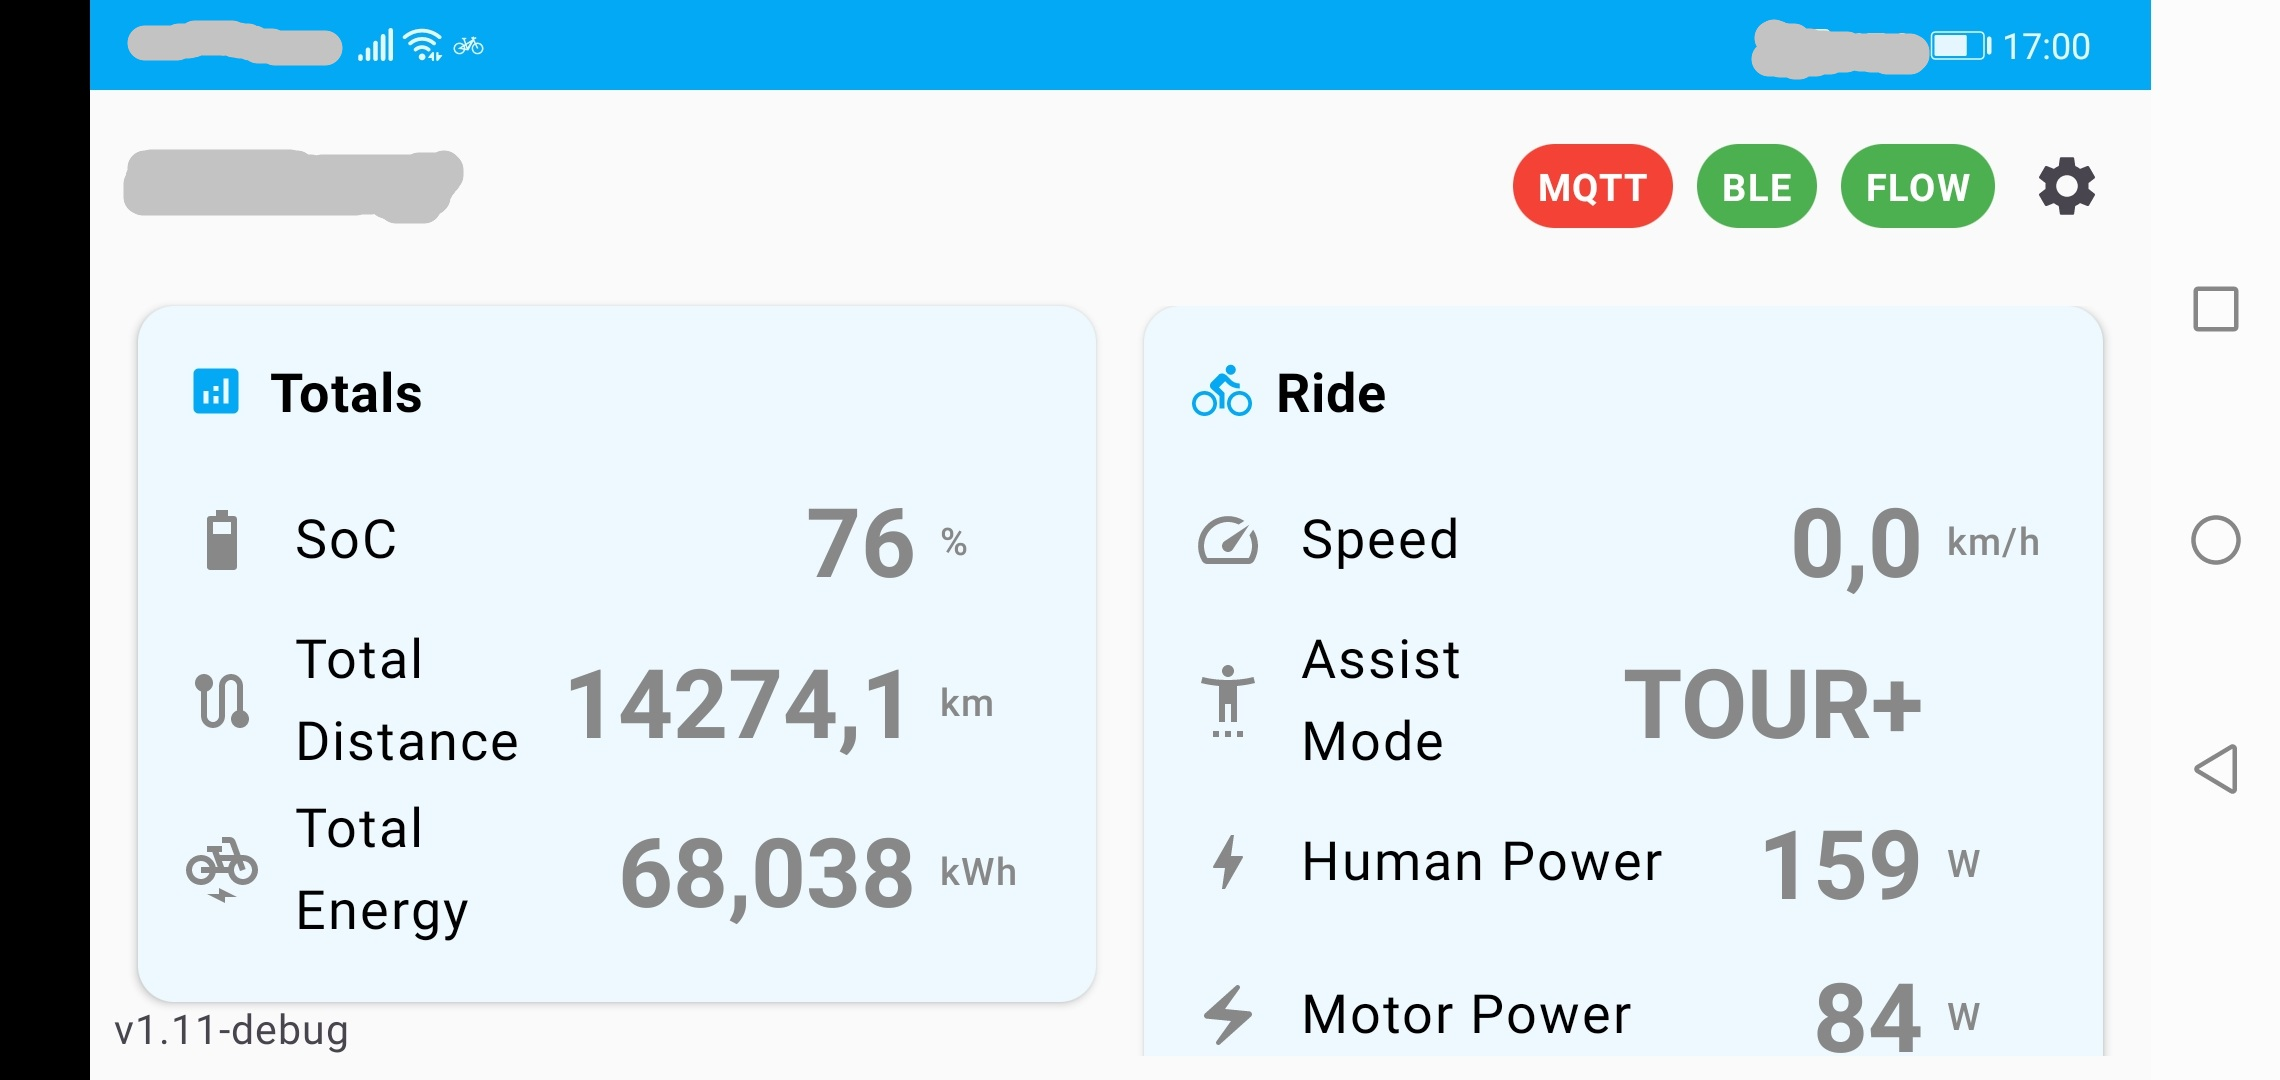
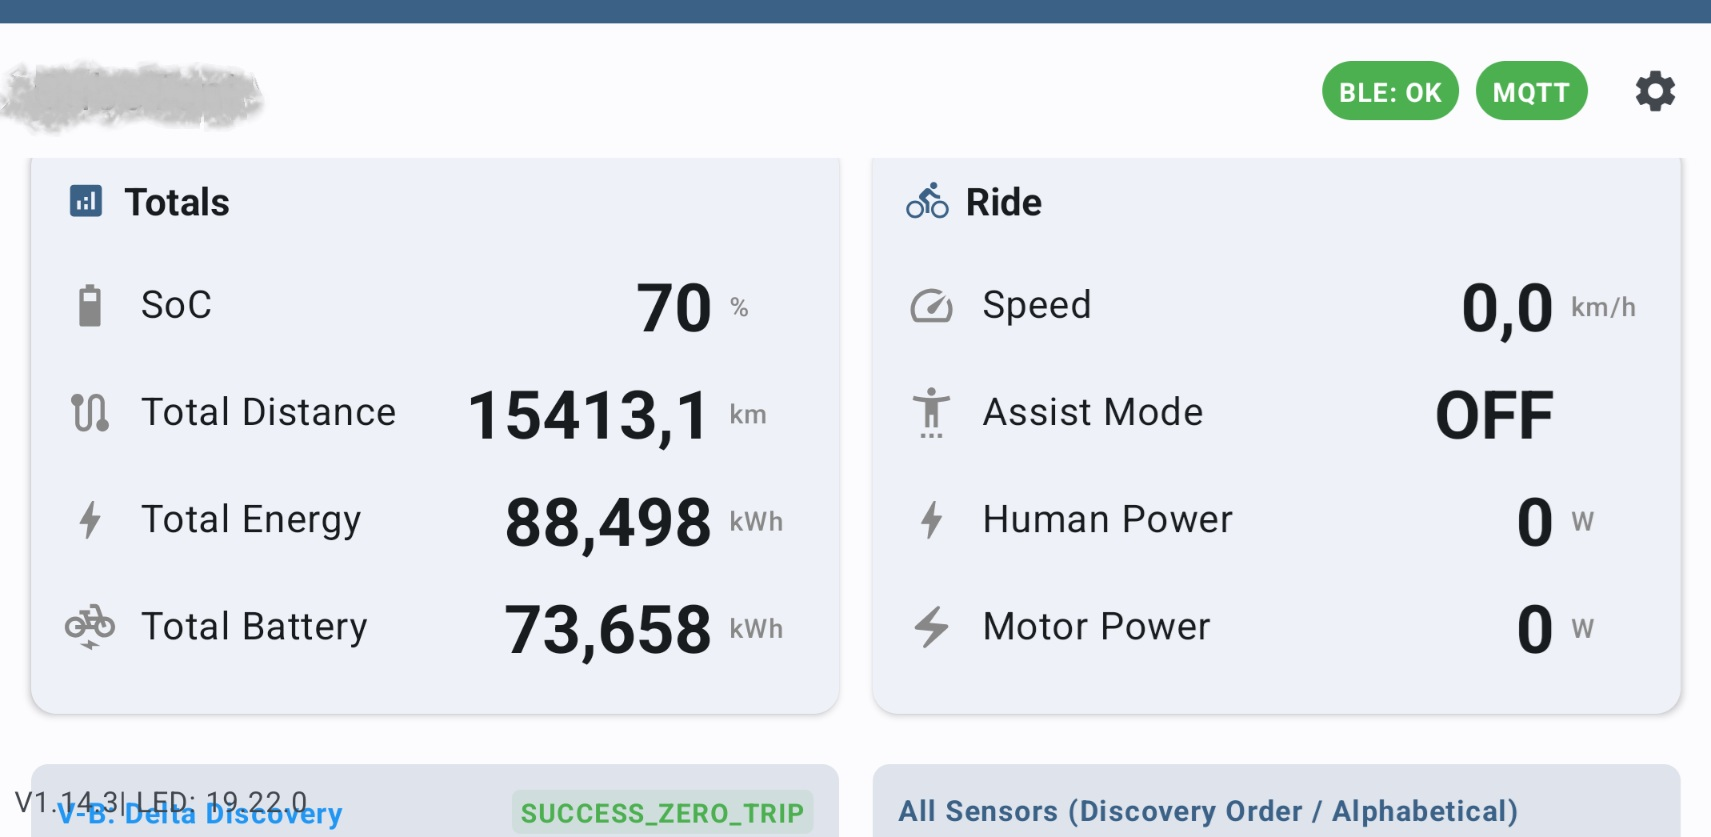
Update documentation and finalize landscape UI
This commit includes all recent documentation updates to README, CHANGELOG, and IMPLEMENTATION_HISTORY, reflecting the new background startup capabilities and removal of legacy settings. It also includes the compact landscape mode UI optimizations and updated screenshots.

diff --git a/app/src/main/java/com/example/ebikemonitor/ui/DashboardScreen.kt b/app/src/main/java/com/example/ebikemonitor/ui/DashboardScreen.kt
@@ -80,6 +80,10 @@ fun DashboardScreen(
                     ) 
                 },
                 actions = {
+                    if (isLandscape) {
+                        CompactActionButtons(viewModel, isMqttConnected, isBleConnected)
+                        Spacer(modifier = Modifier.width(8.dp))
+                    }
                     IconButton(onClick = onNavigateToSettings) {
                         Icon(Icons.Default.Settings, contentDescription = stringResource(R.string.content_desc_settings))
                     }
@@ -279,7 +283,7 @@ fun LandscapeLayout(
         contentPadding = PaddingValues(top = 8.dp, bottom = 24.dp)
     ) {
         item(span = { GridItemSpan(2) }) {
-            ActionButtonsRow(viewModel, isMqttConnected, isBleConnected)
+            NotificationAccessNudge(viewModel)
         }
         item(span = { GridItemSpan(2) }) {
             DiscoveryUpdateNudges(viewModel)
@@ -409,38 +413,8 @@ fun ActionButtonsRow(
     isMqttConnected: Boolean,
     isBleConnected: Boolean,
 ) {
-    val isNotificationAccessGranted by viewModel.isNotificationAccessGranted.collectAsState()
-    
     Column(modifier = Modifier.fillMaxWidth(), verticalArrangement = Arrangement.spacedBy(12.dp)) {
-        // Notification Access Nudge
-        if (!isNotificationAccessGranted) {
-            Surface(
-                modifier = Modifier.fillMaxWidth(),
-                color = MaterialTheme.colorScheme.errorContainer,
-                shape = RoundedCornerShape(12.dp),
-                onClick = { viewModel.openNotificationAccessSettings() }
-            ) {
-                Row(
-                    modifier = Modifier.padding(16.dp),
-                    horizontalArrangement = Arrangement.spacedBy(12.dp),
-                    verticalAlignment = Alignment.CenterVertically
-                ) {
-                    Icon(Icons.Default.Warning, contentDescription = null, tint = MaterialTheme.colorScheme.error)
-                    Column(modifier = Modifier.weight(1f)) {
-                        Text(
-                            "Background Startup Limited", 
-                            fontWeight = FontWeight.Bold,
-                            color = MaterialTheme.colorScheme.onErrorContainer
-                        )
-                        Text(
-                            "Tap here to grant Notification Access. This allows the app to wake up automatically when Bosch Flow connects.",
-                            style = MaterialTheme.typography.bodySmall,
-                            color = MaterialTheme.colorScheme.onErrorContainer
-                        )
-                    }
-                }
-            }
-        }
+        NotificationAccessNudge(viewModel)
 
         Row(
             modifier = Modifier.fillMaxWidth(),
@@ -491,20 +465,53 @@ fun ActionButtonsRow(
 }
 
 @Composable
+fun NotificationAccessNudge(viewModel: MainViewModel) {
+    val isNotificationAccessGranted by viewModel.isNotificationAccessGranted.collectAsState()
+    if (!isNotificationAccessGranted) {
+        Surface(
+            modifier = Modifier.fillMaxWidth(),
+            color = MaterialTheme.colorScheme.errorContainer,
+            shape = RoundedCornerShape(12.dp),
+            onClick = { viewModel.openNotificationAccessSettings() }
+        ) {
+            Row(
+                modifier = Modifier.padding(16.dp),
+                horizontalArrangement = Arrangement.spacedBy(12.dp),
+                verticalAlignment = Alignment.CenterVertically
+            ) {
+                Icon(Icons.Default.Warning, contentDescription = null, tint = MaterialTheme.colorScheme.error)
+                Column(modifier = Modifier.weight(1f)) {
+                    Text(
+                        "Background Startup Limited", 
+                        fontWeight = FontWeight.Bold,
+                        color = MaterialTheme.colorScheme.onErrorContainer
+                    )
+                    Text(
+                        "Tap here to grant Notification Access. This allows the app to wake up automatically when Bosch Flow connects.",
+                        style = MaterialTheme.typography.bodySmall,
+                        color = MaterialTheme.colorScheme.onErrorContainer
+                    )
+                }
+            }
+        }
+    }
+}
+
+@Composable
 fun CompactActionButtons(
     viewModel: MainViewModel,
     isMqttConnected: Boolean,
     isBleConnected: Boolean,
 ) {
     Row(
-        horizontalArrangement = Arrangement.spacedBy(4.dp),
+        horizontalArrangement = Arrangement.spacedBy(8.dp),
         verticalAlignment = Alignment.CenterVertically
     ) {
-        val mqttColor = if (isMqttConnected) Color(0xFF4CAF50) else Color(0xFFF44336)
         val bleColor = if (isBleConnected) Color(0xFF4CAF50) else Color.Gray
+        val mqttColor = if (isMqttConnected) Color(0xFF4CAF50) else Color(0xFFF44336)
         
+        StatusCapsule(if (isBleConnected) "BLE: OK" else "BLE: Wait", bleColor) { }
         StatusCapsule(stringResource(R.string.btn_mqtt), mqttColor) { viewModel.toggleMqttConnection() }
-        StatusCapsule("BLE", bleColor, enabled = false) { }
     }
 }
 

diff --git a/README.md b/README.md
@@ -34,13 +34,12 @@ For decoding see [BLE TOPICS](BLE_TOPICS.md).
 3. **Settings Configuration**:
    - Open the **Settings** screen (gear icon).
    - **eBike Name**: Enter a name for your eBike. This name will be used for the MQTT device in Home Assistant.
-   - **Select eBike**: Choose your paired eBike from the Bluetooth devices list.
+   - **Select eBike**: Choose your paired eBike from the Bluetooth devices list so the app knows which hardware to track.
    - **MQTT Setup**: Enter your MQTT broker URI (e.g., `tcp://192.168.1.10:1883`), username, and password.
-   - **Preferences**: Toggle auto-connect for BLE and MQTT, and auto-launch for the Flow app as desired.
-4. **Initial Connection**: For the first-time setup, ensure the Flow app is not connected to the eBike before eBikeMonitor establishes its BLE connection. This allows the app to correctly capture the assist mode names from the system.
+   - **Automation**: Configure "Auto-Connect MQTT", "Background Startup", and "Direct eBike Detection (Fallback)" to manage how the app runs automatically in the background.
 
 ### Privacy & Permissions Note
-To detect if the Bosch Flow app is running, this app requires the **Usage Access** (`PACKAGE_USAGE_STATS`) permission. Additionally, it uses the **Query All Packages** (`QUERY_ALL_PACKAGES`) permission to locate the Flow app on your device. These permissions are used exclusively for local state detection and automation (auto-launching/stopping). No personal browsing data or package lists are transmitted or collected.
+To detect if the Bosch Flow app is running, this app requires the **Usage Access** (`PACKAGE_USAGE_STATS`) permission. Additionally, it uses the **Query All Packages** (`QUERY_ALL_PACKAGES`) permission to locate the Flow app on your device. For background automation, the app requires **Notification Access** to read when the Flow app connects to your eBike. It also utilizes the Android **Companion Device Manager** to directly detect your eBike's Bluetooth hardware presence. These permissions are used exclusively for local state detection and automation (auto-launching/stopping). No personal browsing data or package lists are transmitted or collected.
 
 ### 2. First Ride
 
@@ -48,18 +47,25 @@ As soon as BLE connects to the eBike, the latest active data is updated on the s
 Assist mode-specific distance and energy data require internal decoding. You may need to ride for a short distance in each mode before valid data can be transmitted via MQTT.
 
 ### 3. Daily Usage Sequence
-To ensure reliable data collection, follow this precise sequence:
+With background automation enabled, the sequence is completely hands-off:
 
 1. **Turn on your eBike.**
-2. **Launch the eBikeMonitor app.**
-3. If auto-connect is enabled in settings, eBikeMonitor will automatically connect to the eBike (BLE) and start the MQTT connection. The corresponding action buttons will turn green.
-4. If auto-launch is enabled, eBikeMonitor will automatically start the Bosch Flow app once the BLE connection is established. Otherwise, tap the **FLOW** action button to start it.
-5. **Keep the Flow app open** until real-time data appears on the eBikeMonitor dashboard. This typically takes about 2 seconds.
-6. **Automatic MQTT Reconnection**: You can launch the app and start your ride even if you are away from home. If auto-connect is enabled, the app will automatically establish the MQTT connection as soon as your phone reaches your local network (or becomes able to reach your broker) and will immediately transmit the latest sensor data.
+2. That's it! 
+   - If **Background Startup** is enabled, eBikeMonitor will wake up automatically as soon as the Bosch Flow app connects. *(**CRITICAL:** You must enable "Ride Screen / Pocket Mode" notifications inside the official Bosch Flow app settings for this to work!)*
+   - If **Direct eBike Detection** is enabled, the Android system will wake eBikeMonitor directly when it senses the eBike's Bluetooth hardware.
+3. The app will silently connect to BLE and MQTT in the background to sync your ride data. You will see a small, persistent notification indicating that background monitoring is active.
+
+**Manual Mode:**
+If you prefer not to use background automation:
+1. Turn on your eBike.
+2. Launch the eBikeMonitor app. It will automatically connect (if auto-connect is enabled) and pull in data.
+**Automatic MQTT Reconnection**: 
+You can start your ride even if you are away from home. The app will securely hold onto your final ride session, and as soon as your phone reaches your local home network (or becomes able to reach your MQTT broker), it will automatically establish the connection and transmit your latest sensor data.
 
 ### 4. Monitoring UI & Features
-- **Action Buttons**: The top row shows the status of MQTT, BLE, and the FLOW app. Green means connected/running, red/gray means disconnected/stopped. You can tap these to manually toggle connections or launch/stop the Flow app.
+- **Status Dashboard**: The top row displays an active status indicator showing whether the background monitoring is actively connected to your eBike or waiting for a connection. It also includes an **MQTT** diagnostic button (Green = Connected, Red = Disconnected) that you can tap to manually restart the MQTT connection if needed.
 - **Charging**: To monitor charging, follow the startup sequence above, then connect the charger to the bike. The battery must be charged while mounted in the eBike, and the smartphone must maintain a BLE connection to the eBike throughout the process.
+- **Debug Info**: Swiping up (scrolling down) on the main dashboard reveals detailed diagnostic and debugging information, including raw sensor payloads, BLE characteristics, and assist mode discovery metrics.
 - **Versions**: The lower-left corner of the UI displays the eBikeMonitor version and the LED remote software version.
 
 Charging curve example:

diff --git a/CHANGELOG.md b/CHANGELOG.md
@@ -2,6 +2,19 @@
 
 All notable changes to the **eBikeMonitor** project will be documented in this file.
 
+## [1.15.0] - 2026-06-06
+### Added
+- Hardware-level Direct eBike Detection using Android `CompanionDeviceManager` as a fallback.
+- Background Startup mechanism using Notification Listener to detect when Bosch Flow connects.
+
+### Fixed
+- Persistent session tracking bug across power cycles (multi-ride corruption).
+- Reduced MQTT broker spam by adding a 30-second connection debounce.
+- Cleaned up MQTT Reconnection loop to prevent connection collisions.
+
+### Changed
+- Reverted mutual exclusivity of detection settings, allowing both Notification and Direct Detection to run in tandem.
+
 ## [1.14.0] - 2026-04-26
 ### Added
 - Comprehensive Bosch BLE decoding for `0x108C` (Usage Records) and `0xA252` (Trip Distance).